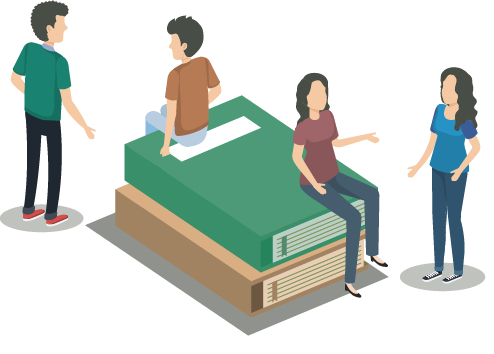
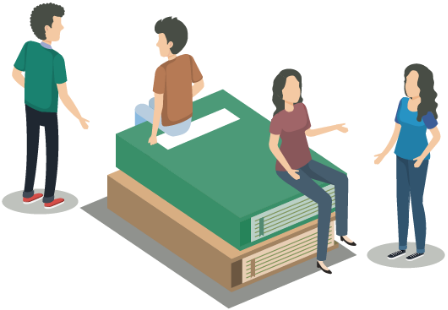
到訪人數統計 (網站顯示和GA後台報表) 搜尋次數統計 (網站顯示和GA後台報表)

Changed region(s): [[0.0, 0.0, 1.0, 1.0]]

diff --git a/imports/ui/Footer.js b/imports/ui/Footer.js
@@ -1,9 +1,11 @@
 import React, { Component } from 'react';
 import { Link, withRouter } from 'react-router-dom';
 import { withLocalize } from "react-localize-redux";
+import { withCookies } from 'react-cookie';
+import { withTracker } from 'meteor/react-meteor-data';
 
 import { setLocale, getLocale } from '../api/locale';
-import { withCookies } from 'react-cookie';
+import { Data } from '../api/data';
 
 class Footer extends Component {
     constructor(props) {
@@ -50,18 +52,31 @@ class Footer extends Component {
         const pathname = this.props.location.pathname;
         let localeButtonStyle = 'locale-button-g';
         let localeButtonSelectedStyle = 'locale-button-selected-g';
+        let visitContainerStyle = 'visit-container-b';
         if (pathname === '/') {
-            localeButtonStyle = 'locale-button';
+            localeButtonStyle = 'locale-button-w';
             localeButtonSelectedStyle = 'locale-button-selected';
+            visitContainerStyle = 'visit-container-w';
         }
+
+        const sessions = commafy(this.props.sessions);
+        const clicks = commafy(this.props.clicks);
+
         return (
             <div className={this.state.background}>
-                <div id='locale-container'>
-                    <button className={localeButtonStyle + ' ' + (this.state.locale === 'tb' ? localeButtonSelectedStyle : '')} value='tb' onClick={this.localeChange.bind(this)}>漢羅台文</button>
-                    <button className={localeButtonStyle + ' ' + (this.state.locale === 'po' ? localeButtonSelectedStyle : '')} value='po' onClick={this.localeChange.bind(this)}>Pe̍h-ōe-jī</button>
-                    <button className={localeButtonStyle + ' ' + (this.state.locale === 'hb' ? localeButtonSelectedStyle : '')} value='hb' onClick={this.localeChange.bind(this)}>華文</button>
-                    <button className={localeButtonStyle + ' ' + (this.state.locale === 'en' ? localeButtonSelectedStyle : '')} value='en' onClick={this.localeChange.bind(this)}>English</button>
+                <div id='footer-top-container' className={visitContainerStyle}>
+                    <div id='visit-container'>
+                        <div>造訪人數：{sessions}</div>
+                        <div>查詢次數：{clicks}</div>
+                    </div>
+                    <div id='locale-container'>
+                        <button className={'locale-button ' + localeButtonStyle + ' ' + (this.state.locale === 'tb' ? localeButtonSelectedStyle : '')} value='tb' onClick={this.localeChange.bind(this)}>漢羅台文</button>
+                        <button className={'locale-button ' + localeButtonStyle + ' ' + (this.state.locale === 'po' ? localeButtonSelectedStyle : '')} value='po' onClick={this.localeChange.bind(this)}>Pe̍h-ōe-jī</button>
+                        <button className={'locale-button ' + localeButtonStyle + ' ' + (this.state.locale === 'hb' ? localeButtonSelectedStyle : '')} value='hb' onClick={this.localeChange.bind(this)}>華文</button>
+                        <button className={'locale-button ' + localeButtonStyle + ' ' + (this.state.locale === 'en' ? localeButtonSelectedStyle : '')} value='en' onClick={this.localeChange.bind(this)}>English</button>
+                    </div>
                 </div>
+                
                 <footer className={this.state.background}>
                     <Link id='footer-image' to='https://grants.g0v.tw/power/' target='_blank'></Link>
                 </footer>
@@ -70,4 +85,26 @@ class Footer extends Component {
     }
 }
 
-export default withCookies(withLocalize(withRouter(Footer)));
+export default  withTracker(() => {
+    Meteor.subscribe('data');
+    const data = Data.findOne();
+    if (data === undefined) {
+        return {
+            sessions: 0,
+            clicks: 0,
+        };
+    } else {
+        return {
+            sessions: data.sessions,
+            clicks: data.clicks,
+        };
+    }
+})(withCookies(withLocalize(withRouter(Footer))));
+
+function commafy(num) {
+    var str = num.toString();
+    if (str.length > 3) {
+        str = str.replace(/(\d)(?=(\d{3})+$)/g, '$1,');
+    }
+    return str;
+}

diff --git a/imports/startup/server/ga.js b/imports/startup/server/ga.js
@@ -6,9 +6,23 @@ const jsonFile = '/Users/leo/Documents/git/ChhoeTaigi/server/chhoetaigiwebsite-2
 const viewID = '180234162';
 const updatePeriod = 5000; // ms
 
+const queries = [
+    {
+        'metrics': 'ga:sessions',
+    },
+    {
+        'metrics': 'ga:totalEvents',
+        'dimensions': 'ga:eventAction',
+    },
+];
+
+import { Data } from '../../api/data';
+
 class GA {
     constructor() {
         this.run = false;
+        this.queryNum = queries.length;
+        this.queryIdx = 0;
     }
 
     start() {
@@ -16,10 +30,22 @@ class GA {
             this.stop();
         }
         this.run = true;
-        this.intervalID = setInterval(this.get, updatePeriod);
+        this.intervalID = setInterval(this.get.bind(this), updatePeriod);
     }
 
     get() {
+        let today = new Date();
+        // year
+        const yyyy = today.getFullYear();
+        // month
+        let mm = (today.getMonth() + 1) + ''; //January is 0!
+        mm = new Array(2 - mm.length + 1).join('0') + mm
+        // day
+        let dd = today.getDate() + '';
+        dd = new Array(2 - dd.length + 1).join('0') + dd
+        
+        today = yyyy + '-' + mm + '-' + dd;
+
         const jwtClient = new google.auth.JWT(
             email,
             jsonFile,
@@ -27,19 +53,23 @@ class GA {
             scopes
         );
         
+        // query
+        const query = Object.assign({
+            auth: jwtClient,
+            'ids': 'ga:' + viewID,
+            'start-date': '2018-01-01',
+            'end-date': today
+        }, queries[this.queryIdx]);
+
+        // authorize
         jwtClient.authorize()
         .catch(error => console.log(error))
         .then(() => {
-            google.analytics('v3').data.ga.get({
-                auth: jwtClient,
-                'ids': 'ga:' + viewID,
-                'metrics': 'ga:sessions',
-                'start-date': '2018-08-01',
-                'end-date': '2018-10-01'
-            })
+            google.analytics('v3').data.ga.get(query)
             .catch(error => console.log(error))
             .then(result => {
-                GA.prototype.process(result.data.totalsForAllResults);
+                //console.log(result.data);
+                this.process(result.data.rows);
             });
         });
     }
@@ -49,8 +79,19 @@ class GA {
         this.run = false;
     }
 
-    process(data) {
-        console.log(data);
+    process(results) {
+        //console.log(results);
+        const data = Data.findOne();
+        if (this.queryIdx === 0) {
+            const sessions = results[0][0];
+            Data.update(data, {$set: {sessions: sessions}}, {upsert: true});
+        } else if (this.queryIdx === 1) {
+            const clicks = results.filter(e => e[0] === 'Search')[0][1];
+            Data.update(data, {$set: {clicks: clicks}}, {upsert: true});
+        }
+
+        // update query index
+        this.queryIdx = (this.queryIdx + 1) % this.queryNum;
     }
 }
 

diff --git a/imports/stylesheets/footer.css b/imports/stylesheets/footer.css
@@ -29,6 +29,34 @@ footer {
 	top: 7px;
 }
 
+#footer-top-container {
+    position: relative;
+    height: 58px;
+    width: 960px;
+    margin-left: auto;
+    margin-right: auto;
+}
+
+#visit-container {
+    position: absolute;
+    height: 58px;
+    top: 12px;
+}
+
+#visit-container > div {
+    height: 21px;
+    font-size: 13px;
+    line-height: 21px;
+}
+
+.visit-container-w > div {
+    color: #d0e3d0;
+}
+
+.visit-container-b > div {
+    color: #3F4D38;
+}
+
 #locale-container {
     width: 300px;
     height: 58px;
@@ -39,19 +67,17 @@ footer {
 
 .locale-button {
     height: 30px;
-    font-size: 15px;
+    font-size: 14px;
     padding-left: 10px;
     padding-right: 10px;
     text-align: center;
+}
+
+.locale-button-w {
     color: white;
 }
 
 .locale-button-g {
-    height: 30px;
-    font-size: 15px;
-    padding-left: 10px;
-    padding-right: 10px;
-    text-align: center;
     color: #3F4D38;
 }
 
@@ -62,5 +88,5 @@ footer {
 
 .locale-button-selected-g {
     border-radius: 2px;
-    border: solid 1px #3F4D38;
+    border: solid 1px #657160;
 }

diff --git a/imports/ui/AllDics.js b/imports/ui/AllDics.js
@@ -27,7 +27,7 @@ class AllDics extends Component {
         let firstDic = state.allResults.find(e => e);;
         if (firstDic)
             state.selectedDic = firstDic.dic;
-        state.background_height = window.innerHeight - 168;
+        state.background_height = window.innerHeight - 154;
         this.state = state;
 
         this.handleScroll = this.handleScroll.bind(this);
@@ -48,7 +48,7 @@ class AllDics extends Component {
 
     handleResize() {
         this.setState({
-            background_height: window.innerHeight - 168,
+            background_height: window.innerHeight - 154,
         });
     }
 

diff --git a/imports/ui/SingleDic.js b/imports/ui/SingleDic.js
@@ -67,7 +67,7 @@ class SingleDic extends Component {
             chineseName: chineseName,
             options: state.options,
             words: state.allResults.words,
-            background_height: window.innerHeight - 168,
+            background_height: window.innerHeight - 154,
         };
 
         this.handleResize = this.handleResize.bind(this);
@@ -75,7 +75,7 @@ class SingleDic extends Component {
 
     handleResize() {
         this.setState({
-            background_height: window.innerHeight - 168,
+            background_height: window.innerHeight - 154,
         });
     }
 

diff --git a/imports/ui/AdvancedSearch.js b/imports/ui/AdvancedSearch.js
@@ -16,7 +16,7 @@ class AdvancedSearch extends Component {
         this.state = {
             method: 'allField',
             selectedDic: undefined,
-            background_height: window.innerHeight - 168,
+            background_height: window.innerHeight - 154,
         };
 
         this.handleResize = this.handleResize.bind(this);
@@ -24,7 +24,7 @@ class AdvancedSearch extends Component {
 
     handleResize() {
         this.setState({
-            background_height: window.innerHeight - 168,
+            background_height: window.innerHeight - 154,
         });
     }
 

diff --git a/imports/ui/BasicSearch.js b/imports/ui/BasicSearch.js
@@ -19,7 +19,7 @@ class BasicSearch extends Component {
             hanlo_taibun_poj: '',
             hoabun: '',
             english_descriptions: '',
-            background_height: window.innerHeight - 374,
+            background_height: window.innerHeight - 360,
         };
 
         this.handleResize = this.handleResize.bind(this);
@@ -27,7 +27,7 @@ class BasicSearch extends Component {
 
     handleResize() {
         this.setState({
-            background_height: window.innerHeight - 374,
+            background_height: window.innerHeight - 360,
         });
     }
 

diff --git a/imports/ui/Detail.js b/imports/ui/Detail.js
@@ -35,7 +35,7 @@ class Detail extends Component {
             path: path,
             dic: dic,
             chineseName: chineseName,
-            background_height: window.innerHeight - 168,
+            background_height: window.innerHeight - 154,
         };
 
         this.handleResize = this.handleResize.bind(this);
@@ -52,7 +52,7 @@ class Detail extends Component {
 
     handleResize() {
         this.setState({
-            background_height: window.innerHeight - 168,
+            background_height: window.innerHeight - 154,
         });
     }
 

diff --git a/imports/ui/DicApp.js b/imports/ui/DicApp.js
@@ -12,7 +12,7 @@ class DicApp extends Component {
         props.addTranslation(dicAppTranslations);
 
         this.state = {
-            background_height: window.innerHeight - 168,
+            background_height: window.innerHeight - 154,
         };
 
         this.handleResize = this.handleResize.bind(this);
@@ -20,7 +20,7 @@ class DicApp extends Component {
 
     handleResize() {
         this.setState({
-            background_height: window.innerHeight - 168,
+            background_height: window.innerHeight - 154,
         });
     }
 

diff --git a/client/main.html b/client/main.html
@@ -2,7 +2,7 @@
   <title>ChhoeTaigi 找台語</title>
   <link href="https://fonts.googleapis.com/css?family=Noto+Sans" rel="stylesheet">
   <link rel="icon" sizes="16x16" href="favicon.ico">
-  <meta property="og:image" content="https://chhoe.taigi.info/images/pic@2x.png" />
+  <meta property="og:image" content="https://chhoe.taigi.info/FB.jpg" />
   <meta property="og:type" content="website" />
   <meta property="og:url" content="https://chhoe.taigi.info" />
   <meta property="og:title" content="ChhoeTaigi 找台語" />

diff --git a/imports/stylesheets/advanced.css b/imports/stylesheets/advanced.css
@@ -69,12 +69,12 @@
 #bg-img {
     display: block;
     position: absolute;
-    width: 247px;
-    height: 177px;
+    width: 224px;
+    height: 155px;
     left: 49px;
     bottom: -40px;
     background-image: url(images/pic@2x.png);
-    background-size: 247px 177px;
+    background-size: 224px 155px;
     z-index: 1;
 }
 

diff --git a/imports/api/data.js b/imports/api/data.js
@@ -8,7 +8,10 @@ if (Meteor.isServer) {
         if (this.userId)
             return Data.find();
         else
-            return this.ready();
+            return Data.find({}, {fields: {
+                sessions: 1,
+                clicks: 1,
+            }});
     });
 }
 
